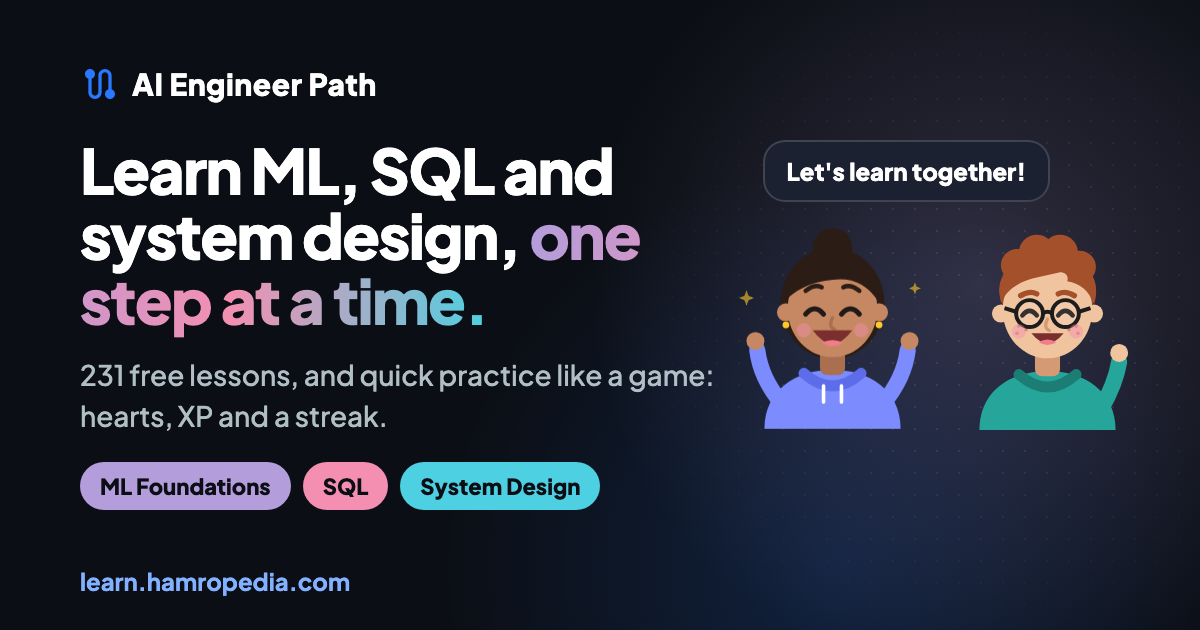
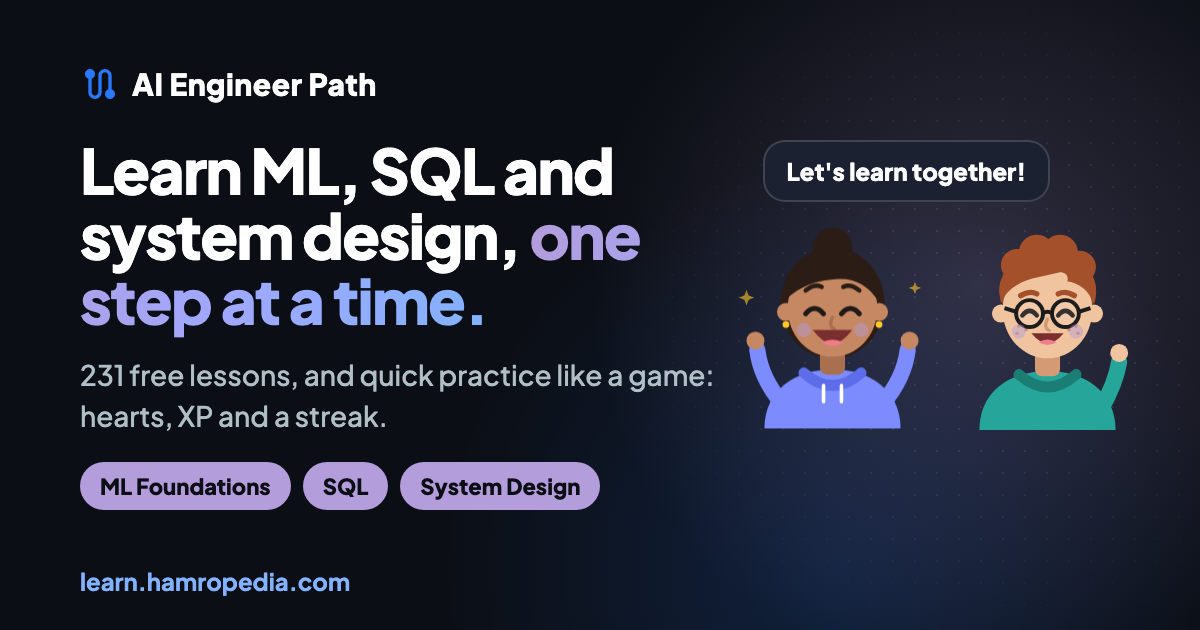
One colour for all courses, remove unused warm-up option

diff --git a/scripts/voice/lines.ts b/scripts/voice/lines.ts
@@ -20,7 +20,7 @@ import { sqlGlossary } from '../../src/utils/sqlGlossary';
 import { systemDesignGlossary } from '../../src/utils/glossary';
 import type { GlossarySource } from '../../src/utils/glossaryEngine';
 import { runOnPracticeDb } from '../../src/utils/sqlRunner';
-import { buildSession, interviewCard, lessonText, withFixCard, type AnyTopic, type InterviewSource, type PracticeGlossary } from '../../src/practice/build';
+import { buildLearnSession, interviewCard, lessonText, withFixCard, type AnyTopic, type InterviewSource, type PracticeGlossary } from '../../src/practice/build';
 import { genAiInterviewSet } from '../../src/data/interviewPrep/genai';
 import { mlInterviewSet } from '../../src/data/interviewPrep/ml';
 import { sqlInterviewSet } from '../../src/data/interviewPrep/sql';
@@ -102,8 +102,9 @@ const add = (guide: Guide, text: string) => {
 
 for (const { course, topics, glossary, questions } of courses) {
     for (const topic of topics as AnyTopic[]) {
-        // With the guess that opens practice from the path, and the interview question of later reviews.
-        let cards = buildSession(course, topic, { glossary, sqlAnswers }, { warmUp: true });
+        // The step-by-step lesson has every line of the quick practice, and the guess and each part's
+        // introduction too; then the interview question of later reviews.
+        let cards = buildLearnSession(course, topic, { glossary, sqlAnswers });
         if (course === 'sql') cards = withFixCard(cards, sql => runOnPracticeDb(SQL, sql));
         cards = [...cards, ...interviewCard(lessonText(topic), questions)];
         const guide = guideFor(topic.id);

diff --git a/src/practice/__tests__/review.test.ts b/src/practice/__tests__/review.test.ts
@@ -10,7 +10,7 @@ import { sqlGlossary } from '../../utils/sqlGlossary';
 import { systemDesignGlossary } from '../../utils/glossary';
 import type { GlossarySource } from '../../utils/glossaryEngine';
 import type { Course } from '../../services/progress';
-import { buildSession, guessCard, interviewCard, lessonText, type AnyTopic, type PracticeGlossary } from '../build';
+import { buildLearnSession, buildSession, guessCard, interviewCard, lessonText, type AnyTopic, type PracticeGlossary } from '../build';
 import { isTeaching, type MistakeCard, type PracticeCard } from '../cards';
 import { CARDS_PER_LESSON, buildReview, pickForLesson } from '../review';
 import type { DueLesson } from '../../game/review';
@@ -51,9 +51,9 @@ describe('guess first', () => {
         // Builds every lesson's practice: give slower machines (like GitHub's) time.
     }, 60_000);
 
-    it('comes first only when practice opens from the path', () => {
+    it('comes first in "Learn it step by step", not in the quick practice', () => {
         const { course, topic, glossary } = all[0];
-        expect(buildSession(course, topic, { glossary, sqlAnswers }, { warmUp: true })[0].kind).toBe('guess');
+        expect(buildLearnSession(course, topic, { glossary, sqlAnswers })[0].kind).toBe('guess');
         expect(buildSession(course, topic, { glossary, sqlAnswers })[0].kind).toBe('idea');
     });
 });

diff --git a/src/practice/build.ts b/src/practice/build.ts
@@ -328,13 +328,12 @@ export const MAX_EXERCISES = 8;
  * producing (order, type the word, write SQL), with one question to recall.
  */
 /**
- * A lesson's practice. With `warmUp` (opened straight from the path), it starts
- * with a guess before the teaching; from the lesson page it doesn't, because the
- * page asked the same guess before the learner read it.
+ * A lesson's quick practice: the idea and its new words, then the questions.
+ * (The guess before learning is part of "Learn it step by step", below.)
  */
-export const buildSession = (course: Course, topic: AnyTopic, sources: SessionSources, options: { warmUp?: boolean } = {}): PracticeCard[] => {
+export const buildSession = (course: Course, topic: AnyTopic, sources: SessionSources): PracticeCard[] => {
     const lesson = lessonText(topic);
-    const teach: PracticeCard[] = [...(options.warmUp ? guessCard(lesson) : []), ideaCard(lesson), ...wordsCard(topic, sources.glossary)];
+    const teach: PracticeCard[] = [ideaCard(lesson), ...wordsCard(topic, sources.glossary)];
     const match = matchCard(topic, sources.glossary);
     const matched = new Set(match.flatMap(card => card.pairs.map(pair => pair.key)));
     const order = orderCard(lesson);

diff --git a/src/game/courses.ts b/src/game/courses.ts
@@ -60,7 +60,8 @@ export const COURSES: CourseInfo[] = [
         route: '/sql',
         title: 'SQL',
         tagline: 'From your first SELECT to window functions and interview problems.',
-        colour: '#f48fb1',
+        // One colour for every course: the same as ML Foundations.
+        colour: '#b39ddb',
         checkNames: ['Explain', 'Write', 'Predict', 'Edge cases'],
         units: toUnits(pathIndex.sql),
     },
@@ -69,7 +70,7 @@ export const COURSES: CourseInfo[] = [
         route: '/system-design',
         title: 'System Design',
         tagline: 'The building blocks, then real designs, the way interviews ask them.',
-        colour: '#4dd0e1',
+        colour: '#b39ddb',
         checkNames: ['Explain', 'Draw', 'Apply', 'Trade-offs'],
         units: toUnits(pathIndex.system_design),
     },

diff --git a/src/game/homeCopy.ts b/src/game/homeCopy.ts
@@ -23,4 +23,5 @@ export const HERO_STATS = [
 ];
 
 /** The end of the headline, in the three course colours. */
-export const HERO_GRADIENT = `linear-gradient(90deg, ${COURSES.map(course => course.colour).join(', ')})`;
+/** The headline's gradient: the courses' purple into the site's blue. */
+export const HERO_GRADIENT = 'linear-gradient(90deg, #b39ddb, #9fa8ff, #82b1ff)';

diff --git a/README.md b/README.md
@@ -8,8 +8,8 @@ Learn machine learning from the maths up, SQL from your first `SELECT`, and syst
 231 lessons that start from scratch and go all the way to interview questions.
 
 [![ML Foundations: 98 lessons](https://img.shields.io/badge/ML_Foundations-98_lessons-b39ddb?style=for-the-badge&labelColor=151921)](https://learn.hamropedia.com/foundations/)
-[![SQL: 61 lessons](https://img.shields.io/badge/SQL-61_lessons-f48fb1?style=for-the-badge&labelColor=151921)](https://learn.hamropedia.com/sql/)
-[![System Design: 72 lessons](https://img.shields.io/badge/System_Design-72_lessons-4dd0e1?style=for-the-badge&labelColor=151921)](https://learn.hamropedia.com/system-design/)
+[![SQL: 61 lessons](https://img.shields.io/badge/SQL-61_lessons-b39ddb?style=for-the-badge&labelColor=151921)](https://learn.hamropedia.com/sql/)
+[![System Design: 72 lessons](https://img.shields.io/badge/System_Design-72_lessons-b39ddb?style=for-the-badge&labelColor=151921)](https://learn.hamropedia.com/system-design/)
 
 ### [Start learning at learn.hamropedia.com →](https://learn.hamropedia.com)
 
